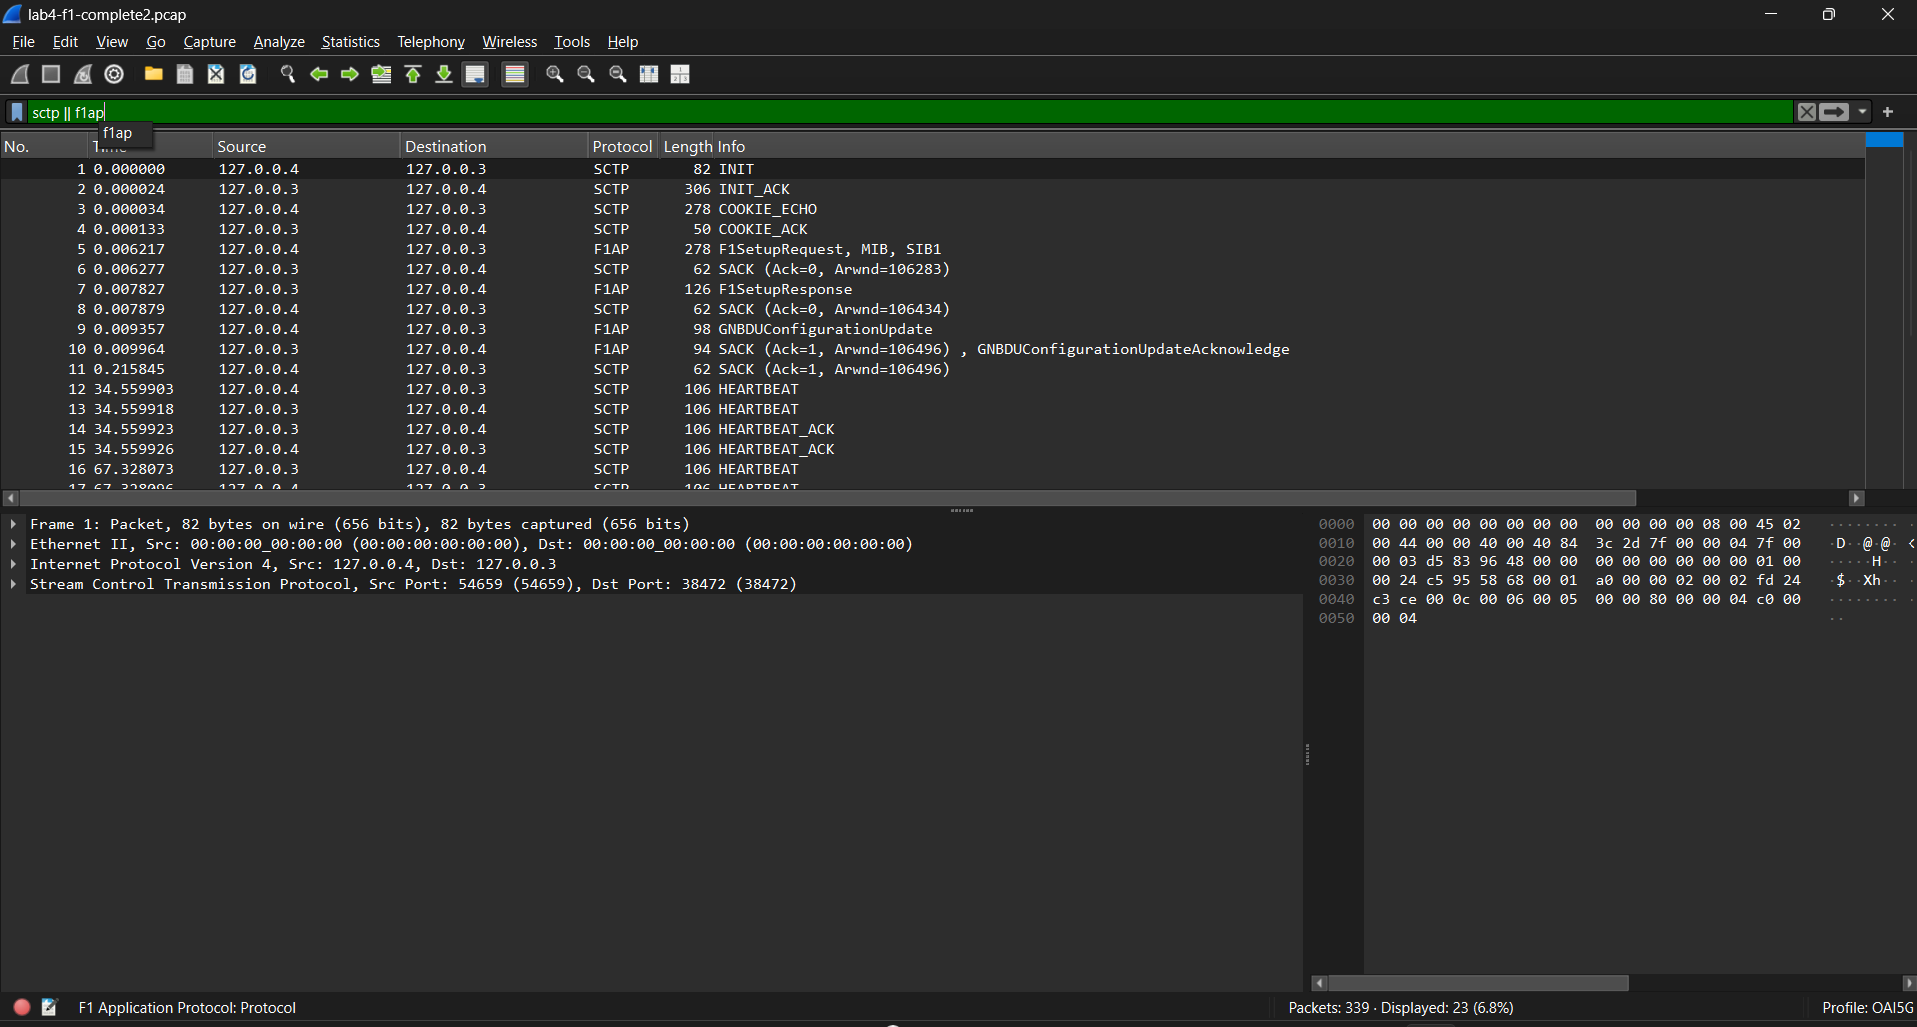
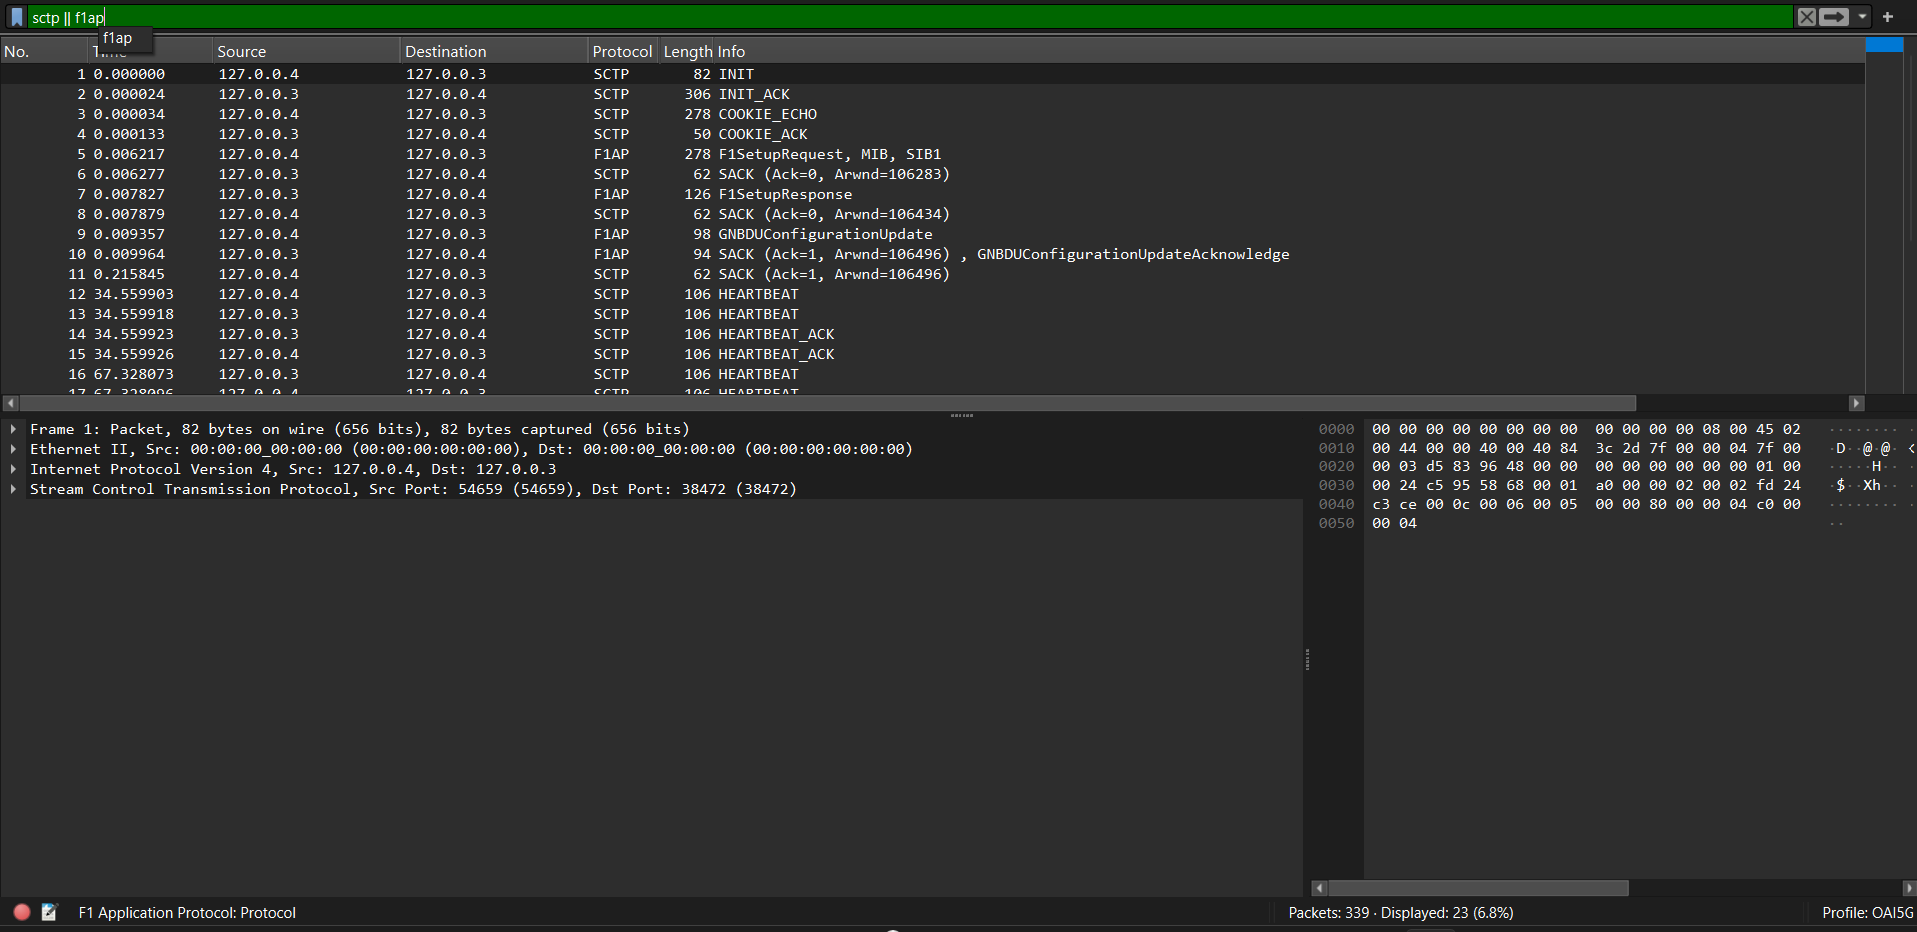
lab4 - readme lab4

diff --git a/README.md b/README.md
@@ -30,6 +30,12 @@
 - Goal: In this lab, you will deploy your own 5G Standalone (SA) network using OpenAirInterface (OAI), verify the complete connection, investigate RFsimulator communication, perform active network measurements, and troubleshoot a controlled connection failure.
 - Delivery: [Link text](https://github.com/M11402827/WC-2026-M11402827-LucieProchazkova/tree/lab3/lab3)
 
+### Lab 4 — 5G CU/DU Split Deployment and F1-C/F1-U Analysis
+
+- Assignment Information: Lab4
+- Deadline : 12:00, Nov. 23
+- Goal: The goal of this lab is to deploy a split 5G gNB architecture using separate CU and DU components, analyze F1-C and F1-U communication between them and verify that the UE can still complete registration, establish a PDU session and achieve end-to-end user-plane connectivity.
+- Delivery: [Link text](https://github.com/M11402827/WC-2026-M11402827-LucieProchazkova/tree/lab4/lab4)
 
 
 
